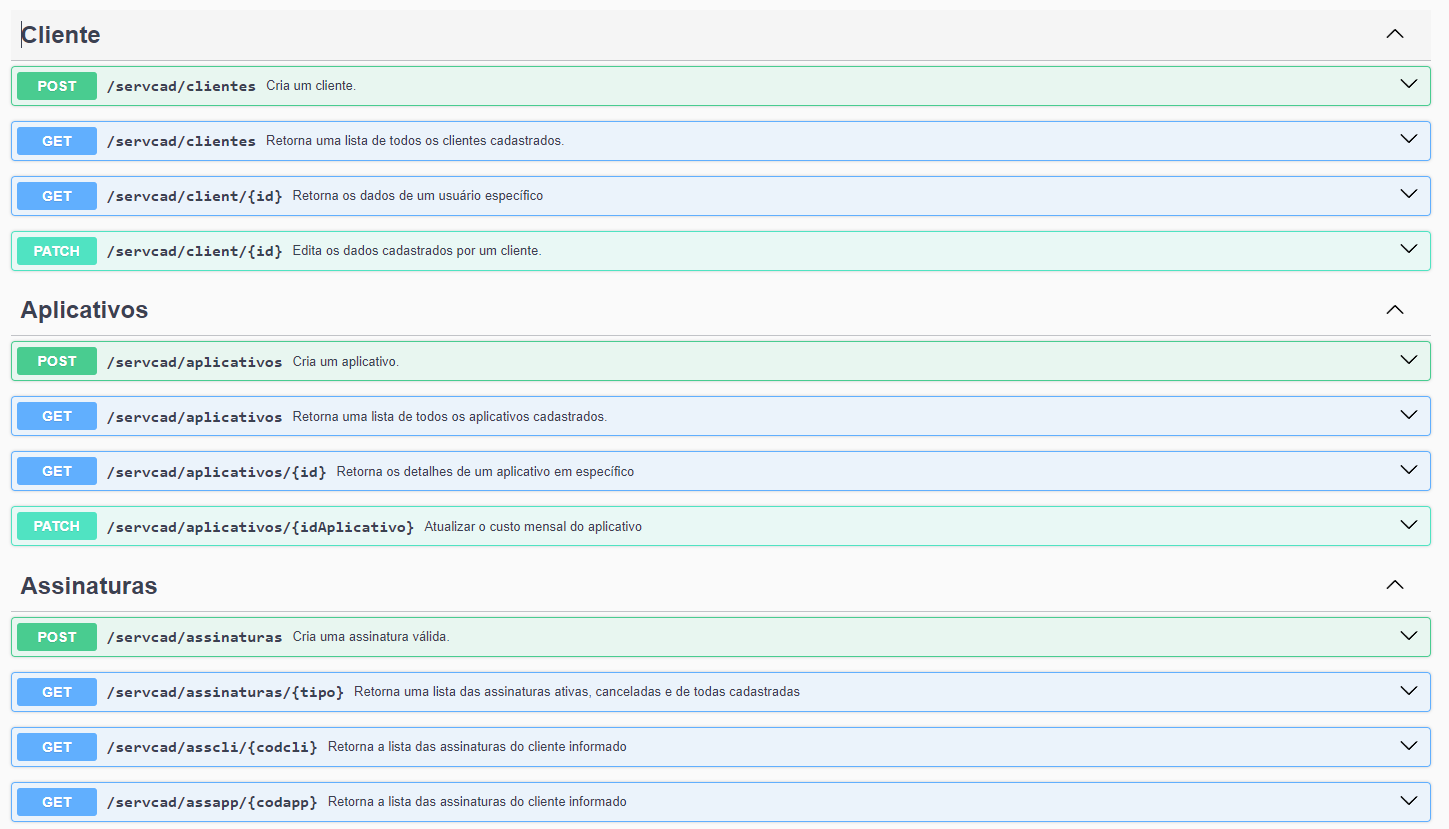
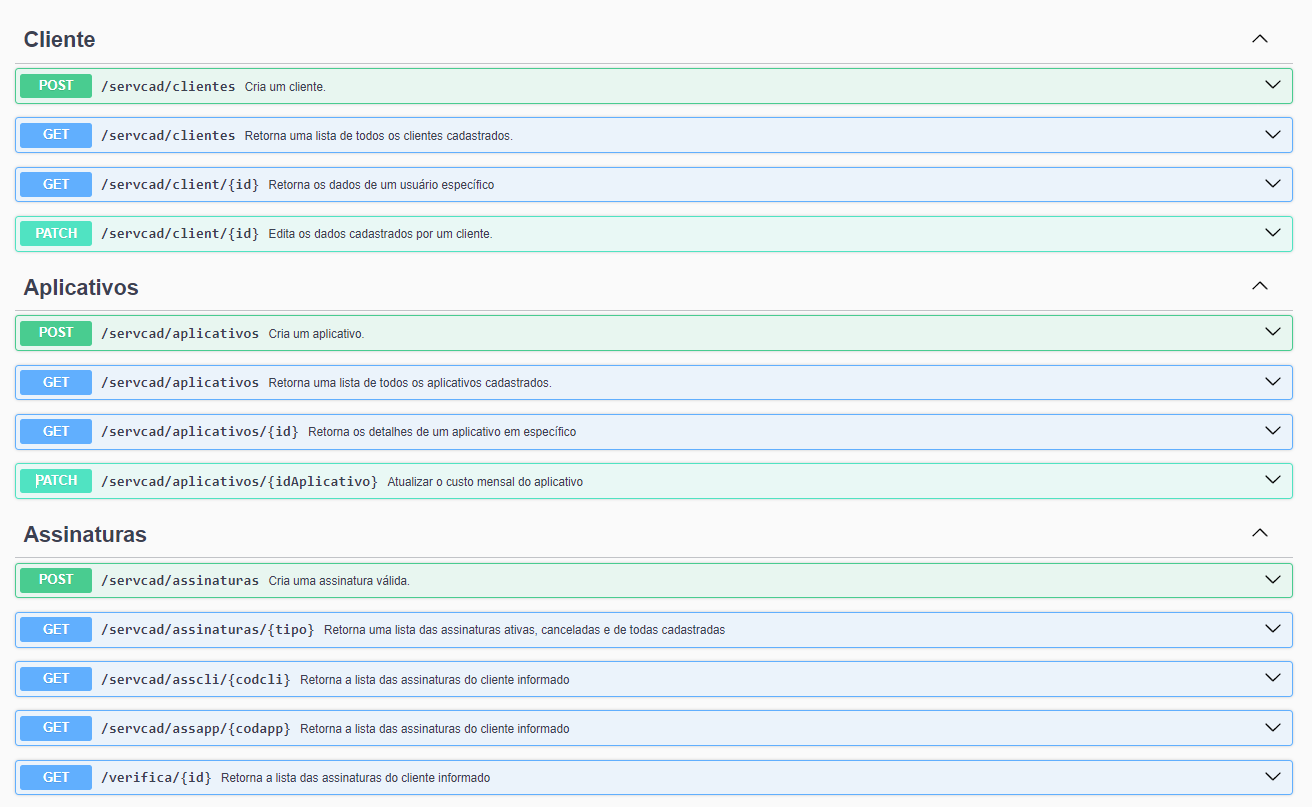
feat: Implementa a busca por um id de assinatura

Changed region(s): [[0.0, 0.031, 1.0, 1.0], [0.9375, 0.6506, 0.9688, 0.7125]]

diff --git a/src/infra/http/http.module.ts b/src/infra/http/http.module.ts
@@ -24,6 +24,8 @@ import { RegisterSubscriptionUseCase } from '@/domain/application/use-cases/regi
 import { ListAllSubscriptionUseCase } from '@/domain/application/use-cases/list-all-subscription'
 import { GetClientSubscriptionUseCase } from '@/domain/application/use-cases/get-client-subscription'
 import { GetApplicationSubscriptionUseCase } from '@/domain/application/use-cases/get-application-subscription'
+import { GetSubscriptionByIdUseCase } from '@/domain/application/use-cases/get-subscription-by-id'
+import { GetSubscriptionByIdController } from './controllers/assinaturas/get-subscription-by-id.controller'
 
 @Module({
   imports: [DatabaseModule],
@@ -40,6 +42,7 @@ import { GetApplicationSubscriptionUseCase } from '@/domain/application/use-case
     GetClientSubscriptionController,
     GetApplicationSubscriptionController,
     EditClientController,
+    GetSubscriptionByIdController,
   ],
   providers: [
     RegisterClientUseCase,
@@ -54,6 +57,7 @@ import { GetApplicationSubscriptionUseCase } from '@/domain/application/use-case
     ListAllSubscriptionUseCase,
     GetClientSubscriptionUseCase,
     GetApplicationSubscriptionUseCase,
+    GetSubscriptionByIdUseCase,
   ],
 })
 export class HttpModule {}

diff --git a/src/infra/http/controllers/assinaturas/get-subscription-by-id.controller.ts b/src/infra/http/controllers/assinaturas/get-subscription-by-id.controller.ts
@@ -1,0 +1,38 @@
+import { BadRequestException, Controller, Get, Param } from '@nestjs/common'
+import { ApiOperation, ApiResponse, ApiTags } from '@nestjs/swagger'
+import { isSubscriptionValidDto } from '../../dtos/get-client-subscription-dto'
+import { GetSubscriptionByIdUseCase } from '@/domain/application/use-cases/get-subscription-by-id'
+
+@Controller('/verifica/:id')
+@ApiTags('Assinaturas')
+export class GetSubscriptionByIdController {
+  constructor(private getSubscriptionByIdUseCase: GetSubscriptionByIdUseCase) {}
+
+  @Get()
+  @ApiOperation({
+    summary: 'Retorna a lista das assinaturas do cliente informado',
+  })
+  @ApiResponse({
+    status: 200,
+    description: 'List of client subscription details',
+    type: [isSubscriptionValidDto],
+  })
+  @ApiResponse({ status: 400, description: 'Cliente não cadatrado.' })
+  async handle(@Param('id') id: string) {
+    console.log('codigoAssinatura:', id)
+
+    const result = await this.getSubscriptionByIdUseCase.execute({
+      codigoAssinatura: id,
+    })
+
+    if (result.isLeft()) {
+      throw new BadRequestException(result.value.message)
+    }
+
+    const status = result.value.status
+
+    return {
+      status,
+    }
+  }
+}

diff --git a/src/domain/application/use-cases/get-subscription-by-id.ts b/src/domain/application/use-cases/get-subscription-by-id.ts
@@ -1,0 +1,32 @@
+import { AssinaturaRepository } from '../repositories/assinatura-repository'
+import { Injectable } from '@nestjs/common'
+import { Either, left, right } from '@/core/either'
+import { SubscriptionNotFoundError } from '@/core/errors/errors/subscription-not-found'
+
+interface GetSubscriptionByIdUseCaseRequest {
+  codigoAssinatura: string
+}
+
+type GetSubscriptionByIdUseCaseResponse = Either<
+  SubscriptionNotFoundError,
+  {
+    status: string
+  }
+>
+
+@Injectable()
+export class GetSubscriptionByIdUseCase {
+  constructor(private assinaturaRepository: AssinaturaRepository) {}
+
+  async execute({
+    codigoAssinatura,
+  }: GetSubscriptionByIdUseCaseRequest): Promise<GetSubscriptionByIdUseCaseResponse> {
+    const status = await this.assinaturaRepository.findById(codigoAssinatura)
+
+    if (!status) {
+      return left(new SubscriptionNotFoundError())
+    }
+
+    return right({ status })
+  }
+}

diff --git a/src/domain/application/use-cases/get-subscription-by-id.spec.ts b/src/domain/application/use-cases/get-subscription-by-id.spec.ts
@@ -1,0 +1,21 @@
+import { InMemoryAssinaturaRepository } from 'test/repositories/in-memory-assinatura-repository'
+import { GetSubscriptionByIdUseCase } from './get-subscription-by-id'
+import { SubscriptionNotFoundError } from '@/core/errors/errors/subscription-not-found'
+
+let inMemoryAssinaturaRepository: InMemoryAssinaturaRepository
+let sut: GetSubscriptionByIdUseCase
+
+describe('Get subscription by id', () => {
+  beforeEach(() => {
+    inMemoryAssinaturaRepository = new InMemoryAssinaturaRepository()
+    sut = new GetSubscriptionByIdUseCase(inMemoryAssinaturaRepository)
+  })
+
+  it('should return an error if the subscription is not found', async () => {
+    const codigoAssinatura = 'non_existent_code'
+    const response = await sut.execute({ codigoAssinatura })
+
+    expect(response.isLeft()).toBe(true)
+    expect(response.value).toBeInstanceOf(SubscriptionNotFoundError)
+  })
+})

diff --git a/src/infra/database/prisma/repositories/prisma-assinatura-repository.ts b/src/infra/database/prisma/repositories/prisma-assinatura-repository.ts
@@ -136,4 +136,21 @@ export class PrismaAssinaturaRepository implements AssinaturaRepository {
 
     return PrismaAssinaturaMapper.toDomain(assinatura)
   }
+
+  async findById(id: string): Promise<string | null> {
+    const assinatura = await this.prisma.assinatura.findUnique({
+      where: {
+        codigo: id,
+      },
+      select: {
+        status: true,
+      },
+    })
+
+    if (!assinatura) {
+      return null
+    }
+
+    return assinatura.status
+  }
 }

diff --git a/test/repositories/in-memory-assinatura-repository.ts b/test/repositories/in-memory-assinatura-repository.ts
@@ -54,4 +54,16 @@ export class InMemoryAssinaturaRepository implements AssinaturaRepository {
       resolve(assinaturaEncontrada || null)
     })
   }
+
+  async findById(id: string): Promise<string | null> {
+    const assinatura = this.assinaturas.find(
+      (assinatura) => assinatura.codigo.toString() === id,
+    )
+
+    if (!assinatura) {
+      return null
+    }
+
+    return assinatura.status || null
+  }
 }

diff --git a/test/factories/make-subscription.ts b/test/factories/make-subscription.ts
@@ -1,12 +1,11 @@
-import { UniqueEntityCodigo } from '@/core/entities/unique-entity-codigo'
 import {
   Assinatura,
   AssinaturaProps,
 } from '@/domain/enterprise/entities/assinaturas'
 
 export function makeSubscription(
-  codApp: UniqueEntityCodigo,
-  codCli: UniqueEntityCodigo,
+  codApp: string,
+  codCli: string,
   override: Partial<AssinaturaProps> = {},
 ) {
   const assinatura = Assinatura.create({

diff --git a/src/domain/enterprise/entities/assinaturas.ts b/src/domain/enterprise/entities/assinaturas.ts
@@ -34,6 +34,10 @@ export class Assinatura extends Entity<AssinaturaProps> {
     return this.props.codCli
   }
 
+  get status() {
+    return this.props.status
+  }
+
   get isSubscriptionExpired(): boolean {
     return dayjs().isAfter(this.fimVigencia, 'day')
   }

diff --git a/src/core/errors/errors/subscription-not-found.ts b/src/core/errors/errors/subscription-not-found.ts
@@ -1,0 +1,7 @@
+import { UseCaseError } from '@/core/errors/use-case-error'
+
+export class SubscriptionNotFoundError extends Error implements UseCaseError {
+  constructor() {
+    super('Assinatura não encontrado.')
+  }
+}

diff --git a/src/domain/application/repositories/assinatura-repository.ts b/src/domain/application/repositories/assinatura-repository.ts
@@ -10,4 +10,6 @@ export abstract class AssinaturaRepository {
     clientId: string,
     appId: string,
   ): Promise<Assinatura | null>
+
+  abstract findById(id: string): Promise<string | null>
 }

diff --git a/src/infra/http/dtos/get-client-subscription-dto.ts b/src/infra/http/dtos/get-client-subscription-dto.ts
@@ -24,3 +24,8 @@ export class SubscriptionDto {
   @ApiProperty()
   status: string
 }
+
+export class isSubscriptionValidDto {
+  @ApiProperty()
+  status: string
+}
